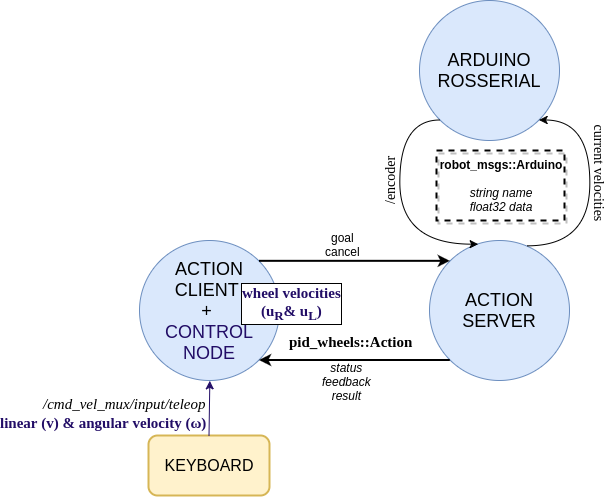
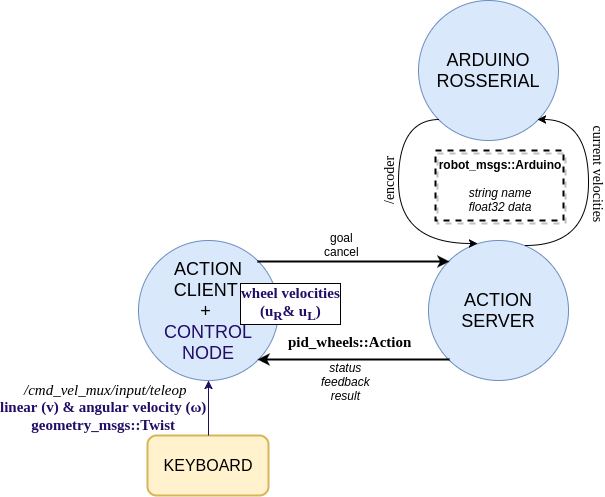
New version of arduino_actuators

diff --git a/arduino_actuators/src/main/include/DCMotor.h b/arduino_actuators/src/main/include/DCMotor.h
@@ -1,6 +1,5 @@
 #pragma once
 
-#include "ATmega2560-HW.h"
 #include "MagneticEncoder.h"
 
 //////////////////////////////////////////////////////////////////
@@ -23,9 +22,17 @@ class DCMotor {
 
   int INL; 
   int INH;
+  char* name;
 
   void initPins();
+  void Stop();
+  void CW(INT_PWM);
+  void CCW(INT_PWM);
   INT_PWM protectOutput(INT_PWM);
+
+  void motorCb(const robot_msgs::Arduino&);
+
+  ros::Subscriber<robot_msgs::Arduino, DCMotor> sub;
 
 public:
 
@@ -33,18 +40,15 @@ public:
   DCMotor(int,int);
   DCMotor(MagneticEncoder*);
   DCMotor(int,int,MagneticEncoder*);
+  DCMotor(int,int,MagneticEncoder*,char*);
 
-  void Stop();
-  void CW(INT_PWM);
-  void CCW(INT_PWM);
-
-  float GetEncoderAngle();
+  void PublishAngle();
 };
 
 //////////////////////////////////////////////////////////////////
 
 DCMotor::DCMotor()
-  : DCMotor::DCMotor((MagneticEncoder*)NULL) {}
+  : DCMotor::DCMotor(new MagneticEncoder(CS1)) {}
 
 DCMotor::DCMotor(int INL, int INH) 
   : DCMotor::DCMotor(INL, INH, (MagneticEncoder*)NULL) {}
@@ -53,9 +57,15 @@ DCMotor::DCMotor(MagneticEncoder* encoder)
   : DCMotor::DCMotor(IN1, IN2, encoder) {}
 
 DCMotor::DCMotor(int INL, int INH, MagneticEncoder* encoder)
-  : INL(INL), INH(INH), encoder(encoder) {
+  : DCMotor::DCMotor(INL, INH, encoder, "left") {}
+    
 
+DCMotor::DCMotor(int INL, int INH, MagneticEncoder* encoder, char* name)
+  : INL(INL), INH(INH), encoder(encoder), name(name),
+    sub("/cmd_vel_mux/input/teleop", &DCMotor::motorCb, this) 
+    {
       DCMotor::initPins();
+      nh.subscribe(sub);
     }
 
 //////////////////////////////////////////////////////////////////
@@ -68,7 +78,7 @@ void DCMotor::initPins() {
 }
 
 void DCMotor::Stop() {
-  // Motor no gira
+  // Motor don't stop
   analogWrite (INL, LOW); 
   analogWrite (INH, LOW);
 }
@@ -93,7 +103,21 @@ INT_PWM DCMotor::protectOutput(INT_PWM val) {
   return val;
 }
 
-float DCMotor::GetEncoderAngle() {
+void DCMotor::PublishAngle() {
 
-  return encoder->GetAngle();
+  encoder->PublishAngle(name);
+}
+
+//////////////////////////////////////////////////////////////////
+
+void DCMotor::motorCb(const robot_msgs::Arduino& msg) {
+
+  if (strcmp(msg.name, "left") == 0) {
+    
+    msg.data? DCMotor::CW(msg.data) : DCMotor::CCW(msg.data);
+  
+  } else {
+
+    msg.data? DCMotor::CCW(msg.data) : DCMotor::CW(msg.data);
+  }
 }

diff --git a/arduino_actuators/src/main/include/MagneticEncoder.h b/arduino_actuators/src/main/include/MagneticEncoder.h
@@ -1,8 +1,6 @@
 #pragma once
 
 #include <AS5048A.h>
-#include <ros.h>
-#include <std_msgs/Float32.h>
 
 #define M_PI 3.14159265359
 
@@ -13,19 +11,22 @@ const boolean PLUS_MINUS_PI PROGMEM = true;
 
 class MagneticEncoder
 {
+	boolean angleMode;
+	float initialAngles;
+	
+	AS5048A *Encoder;
+	robot_msgs::Arduino msg;
+	ros::Publisher pub;
+
 	float read2angle(uint16_t);
 	float normalize(float);
-
-	boolean angleMode;
-	float initial_angle;
-	AS5048A *Encoder;
 
 public:
 	MagneticEncoder();
 	MagneticEncoder(uint8_t);
 	MagneticEncoder(uint8_t, boolean);
 
-	float GetAngle();
+	void PublishAngle(char*);
 };
 
 ///////////////////////////////////////////////////////////////
@@ -38,27 +39,22 @@ MagneticEncoder::MagneticEncoder(uint8_t digitalPin)
 
 MagneticEncoder::MagneticEncoder(uint8_t digitalPin, boolean mode) 
 	: Encoder(new AS5048A(digitalPin)), 
-	  angleMode(mode) {
+	  angleMode(mode),
+	  pub("/encoder", &msg) {
 
 	Encoder->init();
 
-	initial_angle = 
+	initialAngles = 
 		MagneticEncoder::read2angle( Encoder->getRawRotation() );
+
+	nh.advertise(pub);
 }
 
 ///////////////////////////////////////////////////////////////
 
-float MagneticEncoder::GetAngle() {
+float MagneticEncoder::read2angle(uint16_t registerOutput) {
 
-	float current_angle = 
-		MagneticEncoder::read2angle( Encoder->getRawRotation() );
-
-	return normalize(current_angle - initial_angle);
-}
-
-float MagneticEncoder::read2angle(uint16_t register_output) {
-
-	return register_output * ((float)2*M_PI / 16383);
+	return registerOutput * ((float)2*M_PI / 16383);
 }
 
 float MagneticEncoder::normalize(float angle) {
@@ -72,4 +68,14 @@ float MagneticEncoder::normalize(float angle) {
 	if (angleMode == PLUS_MINUS_PI)	angle -= M_PI;
 
 	return angle;
+}
+
+void MagneticEncoder::PublishAngle(char* name) {
+		
+	float currentAngle = MagneticEncoder::read2angle( Encoder->getRawRotation() );
+
+	msg.data = normalize( currentAngle - initialAngles);
+	
+	msg.name = name;
+	pub.publish(&msg);
 }

diff --git a/arduino_actuators/src/main/include/ATmega2560-HW.h b/arduino_actuators/src/main/include/ATmega2560-HW.h
@@ -1,5 +1,10 @@
 #pragma once
 
+#include <ros.h>
+#include <robot_msgs/Arduino.h>
+
+ros::NodeHandle nh;
+
 // Magnetic encoder's signals
 
 #define CS1	6
@@ -11,3 +16,8 @@
 #define IN2 10
 #define IN3 9
 #define IN4	8
+
+///////////////////////////////////////
+
+const boolean LEFT PROGMEM = false;
+const boolean RIGHT PROGMEM = true;

diff --git a/README.md b/README.md
@@ -6,25 +6,25 @@
 
 3) **from_keyboard_node_test**: lightweight implementation of the code _from_keyboard_node_. It uses local variables inside the class instead of global variables.
 
-4) **pid_wheels**: example of an action client & server. Will be hosted in the Raspberry.
+4) **pid_wheels_action_server**: the action server do the math for the PID. The action client interacts with the PID action server and receives the keyboard commands in order to translate into wheel velocities. This package will be hosted in the Raspberry Pi.
 
 5) **arduino_actuators**: integration of the first two packages (_AS5048-ros-node_ and _from_keyboard_node_) into a single package.
 
-----
+6) **robot_msgs**: custom messages for motors and encoders. From here, I'll implement a new approach.
 
-7) **robot_msgs**: custom messages for motors and encoders. From here, I'll implement a new approach.
+----
 
 ## New approach
 
 ![NewApproach](software.png)
 
-The _turtlebot_teleop_ package is used to send, from the keyboard, the linear and angular velocity needed.
+The _turtlebot_teleop_ package is used to send, from the keyboard, the linear and angular velocity needed (_geometry_msgs::Twist_).
 
 This data is sent via _/cmd_vel_mux/input/teleop_ topic and received by the **control node**. This node, transforms the data into wheel velocities (left and right from a differential drive mobile robot).
 
 This modificated information is given to the **action client** who operates with the **action server** in order to perform the PID calculations.
 
-The closed loop system needs the encoder data provided by the Arduino via the _/encoder_ topic in order to work fine.
+The closed loop system needs the encoder data provided by the **Arduino rosserial node** via the _/encoder_ topic in order to work fine.
 
 Besides, the action server sends the current velocity for each loop, also known as PWM values for the DC motors.
 

diff --git a/TODO.md b/TODO.md
@@ -7,3 +7,16 @@ PID: crear ejemplo básico, en Raspberry o PC un action client-server. Debe reci
 DIRECCION DEL MOTOR, EL float NO MANEJA VALORES NEGATIVOS!!!
 
 TODO: Check if it manages OK the different incoming messages (from left and right encoder) 
+
+
+CAMBIAR INSTRUCTIVO PARA LA GENERACION DE MENSAGES PERSONALIZADOS EN ARDUINO:
+
+MI IMPLEMENTACION:
+
+EN catkin_ws/src/../ 
+
+roscore
+
+rosrun rosserial_arduino make_libraries.py libraries/
+
+SE GENERO UNA CARPETA libraries DONDE ESTA LA CARPETA robot_msgs. SE COPIA AL DIRECTORIO DE ARDUINO LIBRARIES.
